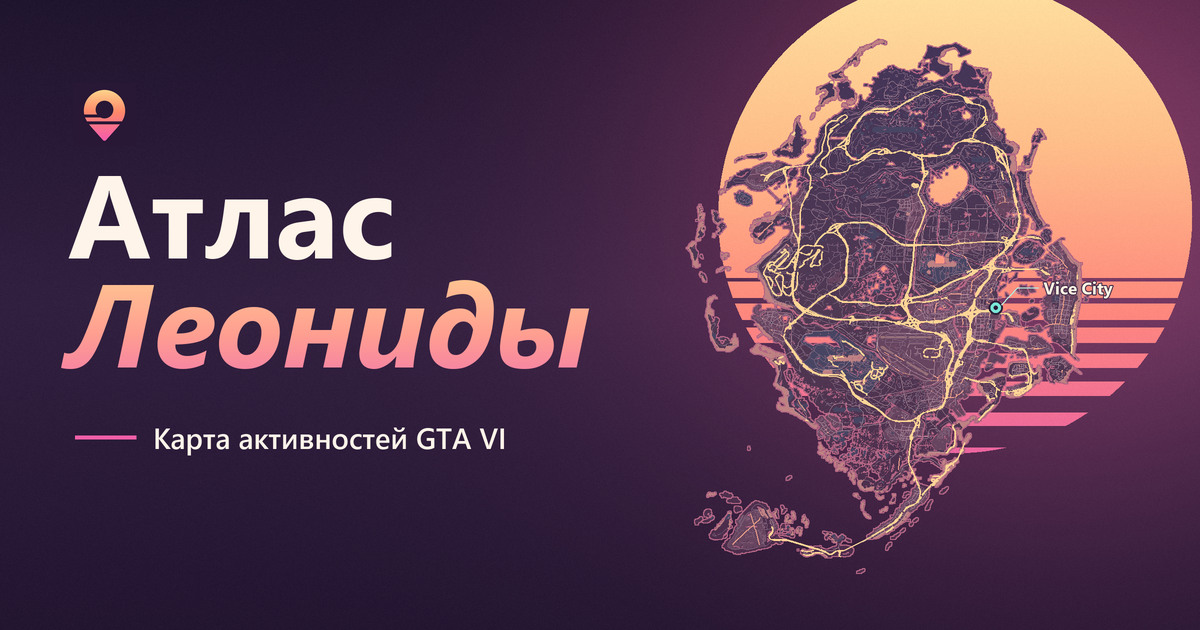
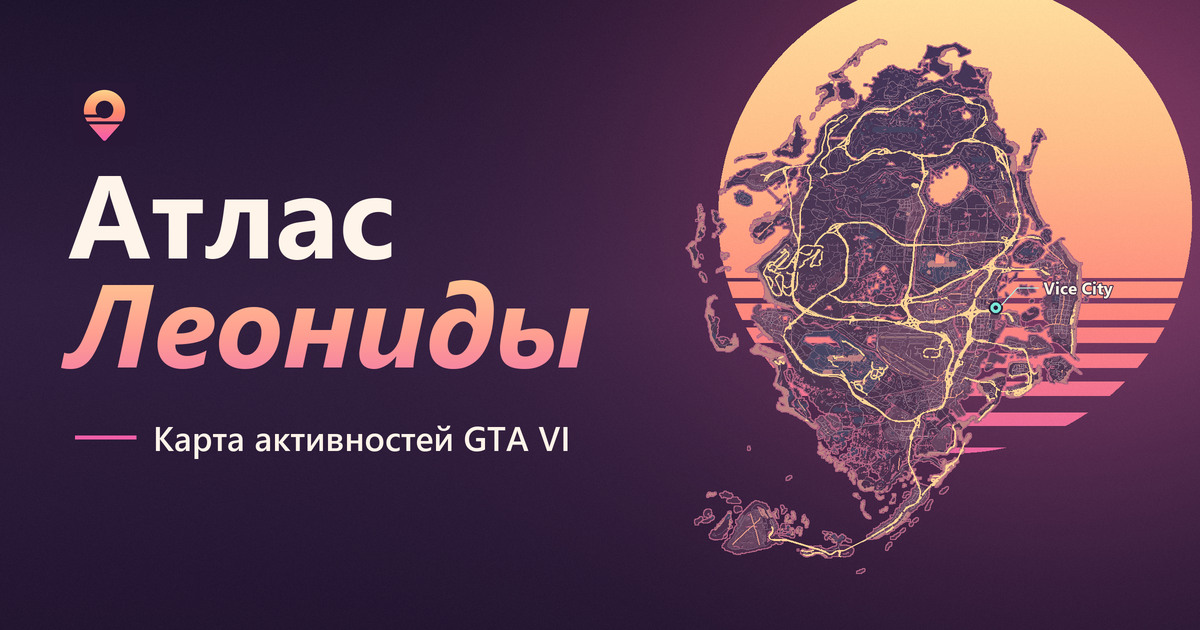
Improve cover subtitle legibility in small link cards

Changed region(s): [[0.1233, 0.6635, 0.4933, 0.7238]]

diff --git a/scripts/build_social_preview.py b/scripts/build_social_preview.py
@@ -128,14 +128,11 @@ def make_poster():
     ink = field((y-280)/103, [(0, "ffc292"), (.52, "ff9f91"), (1, "f47da8")])
     image.paste(Image.fromarray(np.uint8(ink)), mask=word)
     draw.line([px(75, 437), px(136, 437)], fill="#f45fa8", width=4*SCALE)
-    draw.text(px(153, 437), "Карта активностей GTA VI", font=font(29), fill="#fff4e9", anchor="lm")
+    draw.text(px(153, 437), "Карта активностей GTA VI", font=font(34), fill="#fff4e9", anchor="lm")
 
-    mark = ASSETS / "atlas-mark.svg"
-    icon = ROOT / "docs" / "apple-touch-icon.png"
-    if mark.is_file() and icon.is_file():
-        logo = Image.open(icon).convert("RGBA")
-        logo.thumbnail(px(63, 63), Image.Resampling.LANCZOS)
-        image.paste(logo, px(73, 83), logo)
+    logo = Image.open(ROOT / "docs" / "apple-touch-icon.png").convert("RGBA")
+    logo.thumbnail(px(63, 63), Image.Resampling.LANCZOS)
+    image.paste(logo, px(73, 83), logo)
 
     exif = Image.Exif()
     exif[270] = "Leonida activity atlas. Reprojected and restyled Open GTA 6 Map vector data."
